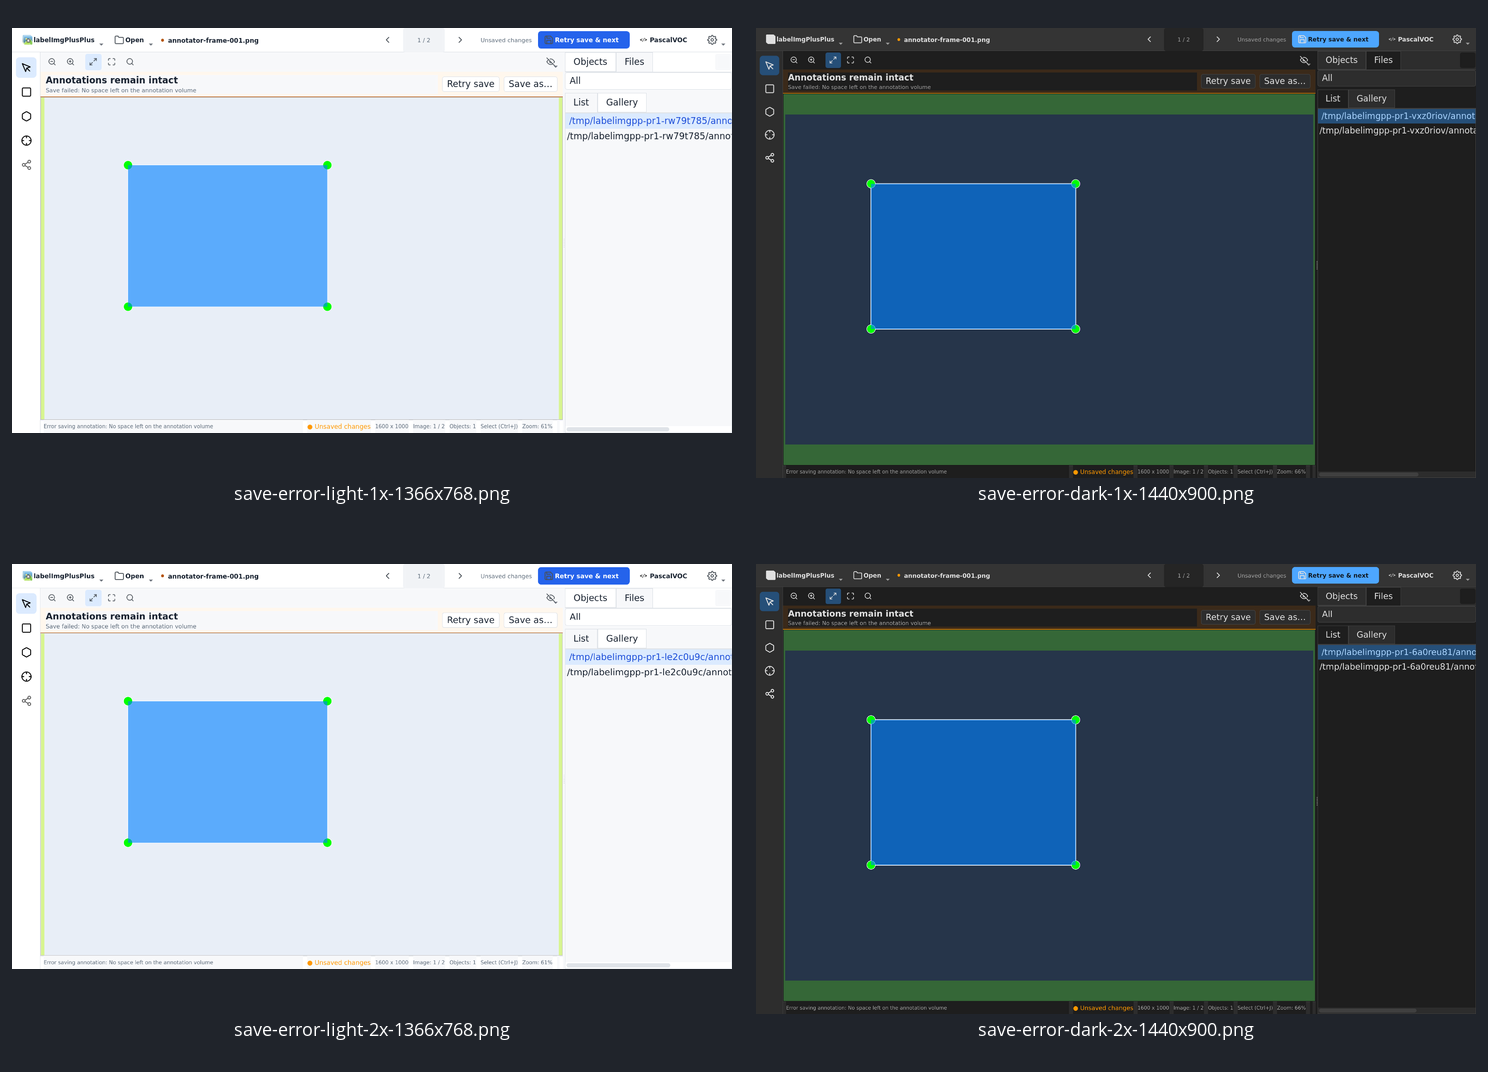
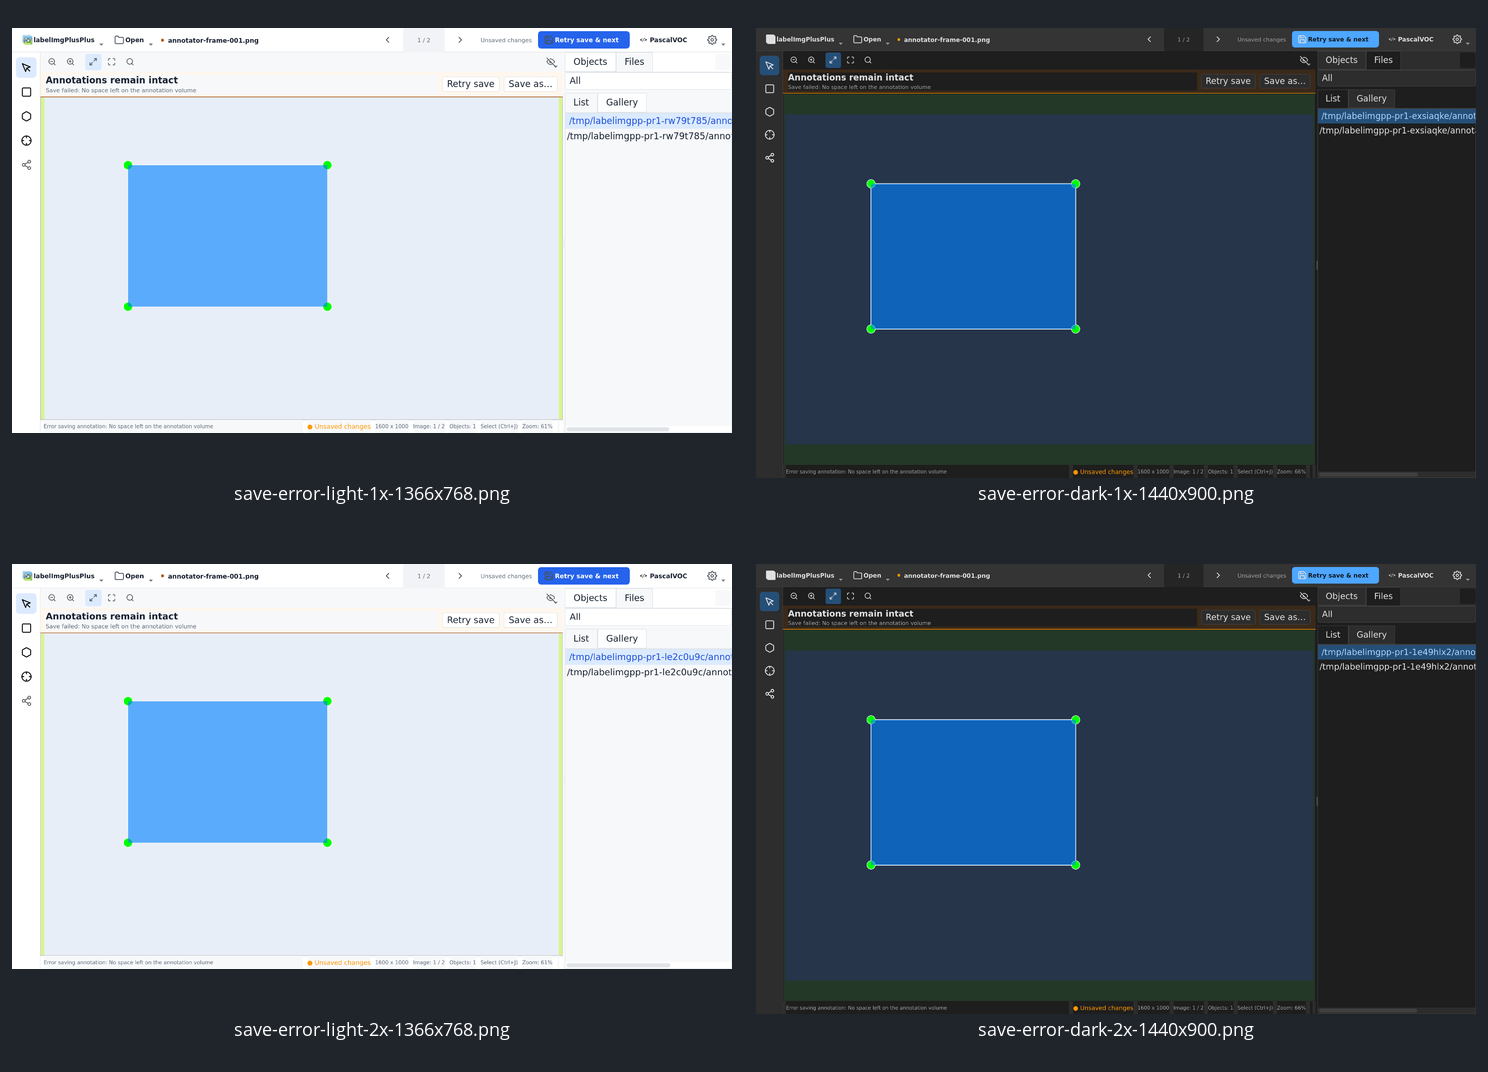
style(ui): soften verified canvas in dark mode

diff --git a/libs/utils/styles.py b/libs/utils/styles.py
@@ -124,7 +124,7 @@ DARK_COLORS = {
     'warning_surface': '#3b2a1a',
     'status_error': '#f44336',
     'status_info': '#4da6ff',
-    'verified_bg': '#4caf50',  # Slightly muted green for dark theme
+    'verified_bg': '#295131',  # Quiet green wash for verified canvases
     'canvas_bg': '#2d2d2d',    # Canvas viewport background
     'placeholder': '#3d3d3d',  # Dark gray for placeholders
     'item_bg': '#2d2d2d',      # Darker gray for item backgrounds
